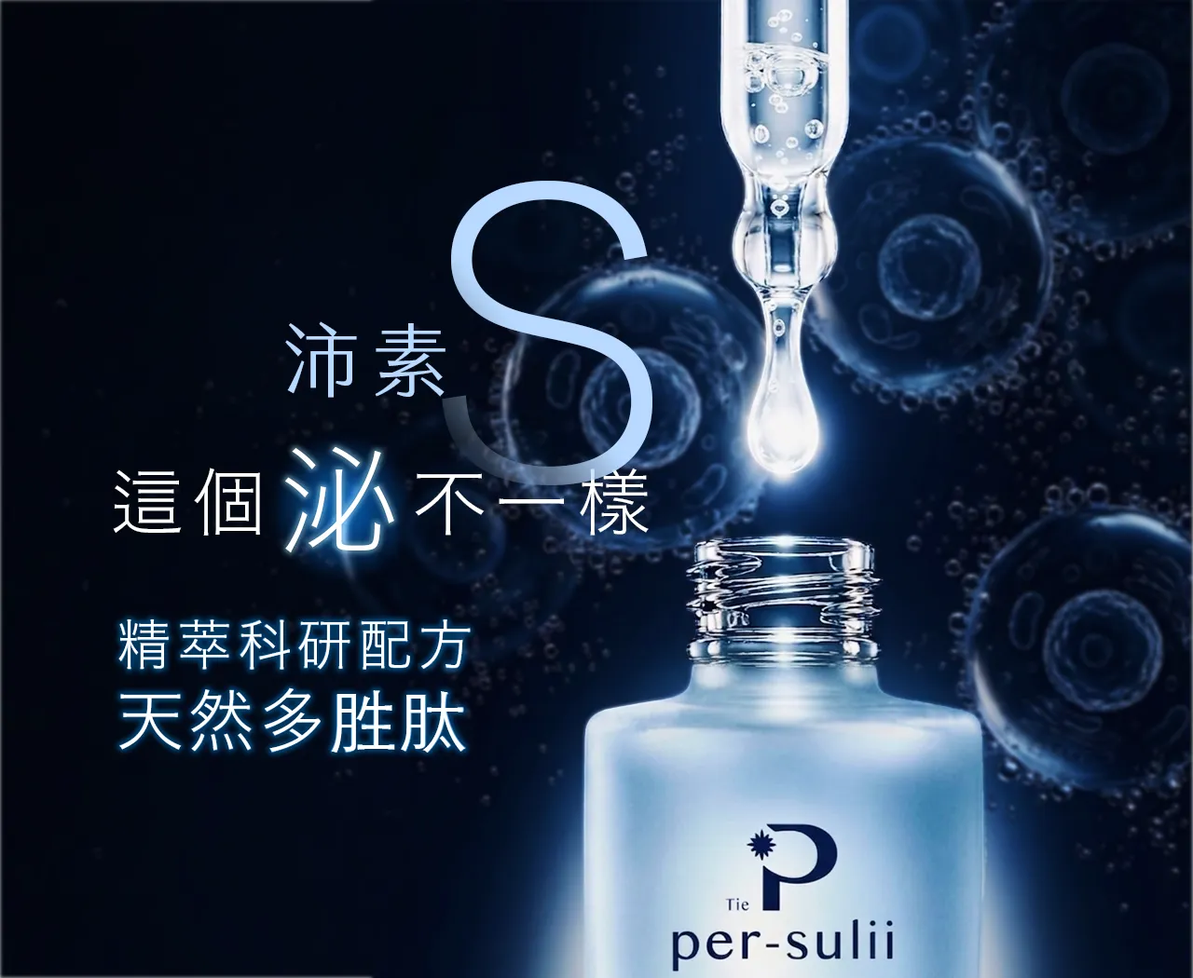
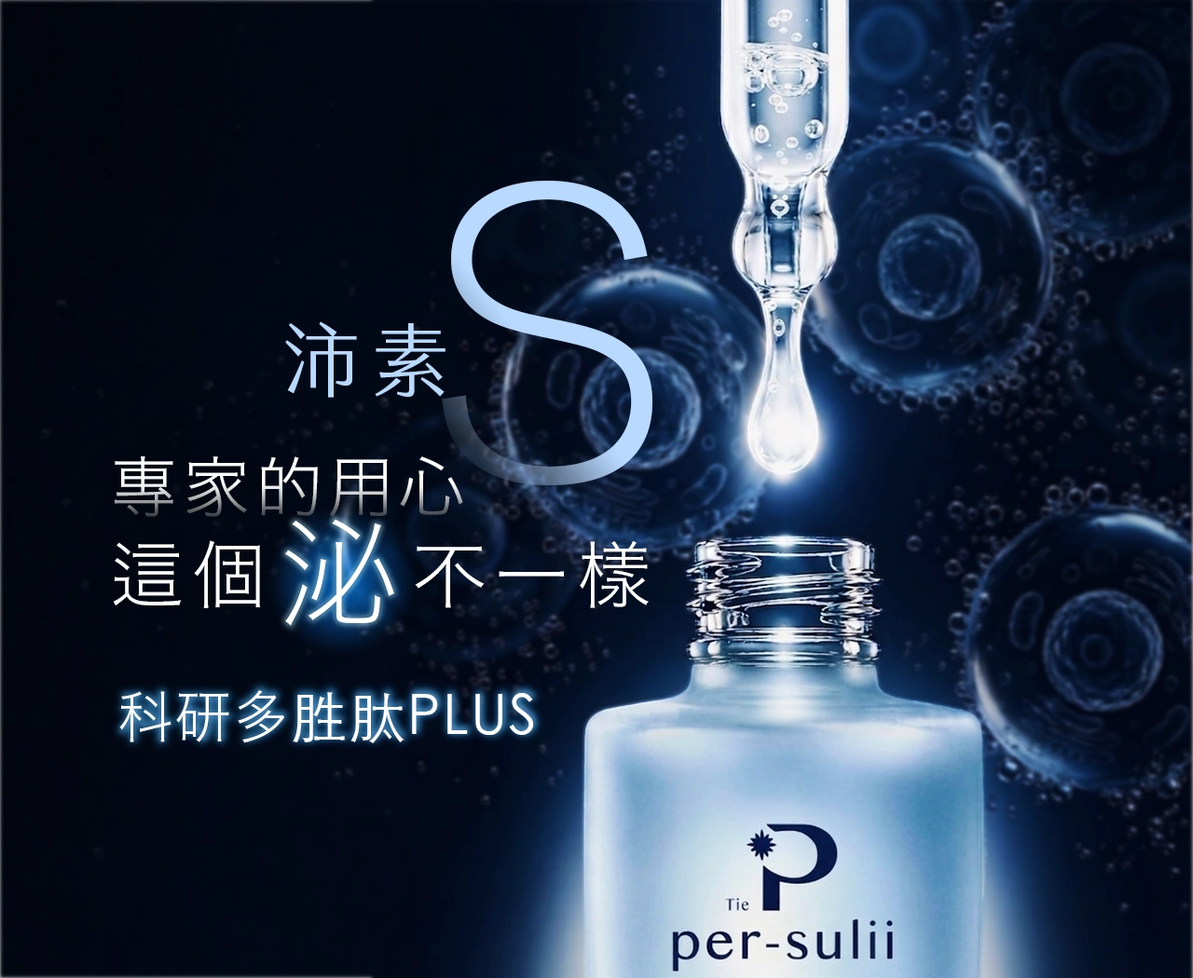
文案優化調整

Changed region(s): [[0.0938, 0.4571, 0.5625, 0.7924]]

diff --git a/products/v-essence.html b/products/v-essence.html
@@ -13,21 +13,21 @@
   <meta charset="UTF-8">
   <meta name="viewport" content="width=device-width, initial-scale=1.0">
   <title>V-essence 精萃蜂胜肽 PLUS 精華 — 沛素 per-sulii</title>
-  <meta name="description" content="專為紋路肌膚打造的撫紋精華 蜂胜肽是珍貴的活性多肽成分，有助於維持肌膚彈性與緊緻，改善細紋與乾燥粗糙，讓肌膚展現澎潤光澤與年輕活力。">
+  <meta name="description" content="專為淡化肌膚紋路打造 蜂胜肽是珍貴的活性多肽成分，有助於維持肌膚彈性與緊緻，改善細紋與乾燥粗糙，讓肌膚展現澎潤光澤與年輕活力。">
   <link rel="canonical" href="https://persulii.com.tw/products/v-essence">
   <meta property="og:type" content="product">
   <meta property="og:site_name" content="沛素 per-sulii">
   <meta property="og:title" content="V-essence 精萃蜂胜肽 PLUS 精華 — 沛素 per-sulii">
-  <meta property="og:description" content="專為紋路肌膚打造的撫紋精華 蜂胜肽是珍貴的活性多肽成分，有助於維持肌膚彈性與緊緻，改善細紋與乾燥粗糙，讓肌膚展現澎潤光澤與年輕活力。">
+  <meta property="og:description" content="專為淡化肌膚紋路打造 蜂胜肽是珍貴的活性多肽成分，有助於維持肌膚彈性與緊緻，改善細紋與乾燥粗糙，讓肌膚展現澎潤光澤與年輕活力。">
   <meta property="og:url" content="https://persulii.com.tw/products/v-essence">
   <meta property="og:image" content="https://persulii.com.tw/images/pbanner-V.webp">
   <meta property="og:locale" content="zh_TW">
   <meta name="twitter:card" content="summary_large_image">
   <meta name="twitter:title" content="V-essence 精萃蜂胜肽 PLUS 精華 — 沛素 per-sulii">
-  <meta name="twitter:description" content="專為紋路肌膚打造的撫紋精華 蜂胜肽是珍貴的活性多肽成分，有助於維持肌膚彈性與緊緻，改善細紋與乾燥粗糙，讓肌膚展現澎潤光澤與年輕活力。">
+  <meta name="twitter:description" content="專為淡化肌膚紋路打造 蜂胜肽是珍貴的活性多肽成分，有助於維持肌膚彈性與緊緻，改善細紋與乾燥粗糙，讓肌膚展現澎潤光澤與年輕活力。">
   <meta name="twitter:image" content="https://persulii.com.tw/images/pbanner-V.webp">
-  <script type="application/ld+json">{"@context":"https://schema.org","@type":"Product","name":"V-essence 精萃蜂胜肽 PLUS 精華","description":"專為紋路肌膚打造的撫紋精華 蜂胜肽是珍貴的活性多肽成分，有助於維持肌膚彈性與緊緻，改善細紋與乾燥粗糙，讓肌膚展現澎潤光澤與年輕活力。","image":"https://persulii.com.tw/images/pbanner-V.webp","brand":{"@type":"Brand","name":"per-sulii 沛素"},"url":"https://persulii.com.tw/products/v-essence"}</script>
-  <script type="application/ld+json">{"@context":"https://schema.org","@type":"VideoObject","name":"V-essence 精萃蜂胜肽 PLUS 精華 介紹影片","description":"V-essence 精萃蜂胜肽 PLUS 精華介紹影片。專為紋路肌膚打造的撫紋精華 蜂胜肽是珍貴的活性多肽成分，有助於維持肌膚彈性與緊緻，改善細紋與乾燥粗糙，讓肌膚展現澎潤光澤與年輕活力。","thumbnailUrl":"https://persulii.com.tw/images/video-v-poster.jpg","uploadDate":"2026-08-01T00:00:00+08:00","embedUrl":"https://www.youtube.com/embed/5AQHqlaNYpI"}</script>
+  <script type="application/ld+json">{"@context":"https://schema.org","@type":"Product","name":"V-essence 精萃蜂胜肽 PLUS 精華","description":"專為淡化肌膚紋路打造 蜂胜肽是珍貴的活性多肽成分，有助於維持肌膚彈性與緊緻，改善細紋與乾燥粗糙，讓肌膚展現澎潤光澤與年輕活力。","image":"https://persulii.com.tw/images/pbanner-V.webp","brand":{"@type":"Brand","name":"per-sulii 沛素"},"url":"https://persulii.com.tw/products/v-essence"}</script>
+  <script type="application/ld+json">{"@context":"https://schema.org","@type":"VideoObject","name":"V-essence 精萃蜂胜肽 PLUS 精華 介紹影片","description":"V-essence 精萃蜂胜肽 PLUS 精華介紹影片。專為淡化肌膚紋路打造 蜂胜肽是珍貴的活性多肽成分，有助於維持肌膚彈性與緊緻，改善細紋與乾燥粗糙，讓肌膚展現澎潤光澤與年輕活力。","thumbnailUrl":"https://persulii.com.tw/images/video-v-poster.jpg","uploadDate":"2026-08-01T00:00:00+08:00","embedUrl":"https://www.youtube.com/embed/5AQHqlaNYpI"}</script>
   <link rel="preconnect" href="https://fonts.googleapis.com">
   <link rel="preconnect" href="https://fonts.gstatic.com" crossorigin>
   <link
@@ -41,7 +41,7 @@
   <div id="site-header"></div>
 
   <!-- 本頁由 scripts/build-pages.mjs 依 content/products.json 產生，請勿直接編輯 -->
-  <main id="product-detail"><div class="wrap"><div class="crumb"><a href="/">首頁</a> / <a href="/products">產品</a> / V-essence 精萃蜂胜肽 PLUS 精華</div></div><div class="pbanner-wrap"><img class="pbanner" src="/images/pbanner-V.webp" alt="V-essence 精萃蜂胜肽 PLUS 精華"></div><section class="sec tight"><div class="wrap split" style="align-items:flex-start"><div class="media product" id="product-hero-media"><img class="media-img" src="/images/V02.webp" alt="V-essence 精萃蜂胜肽 PLUS 精華"></div><div><div class="eyebrow">V-essence</div><h1 class="h2 mt12">精萃蜂胜肽 PLUS 精華</h1><p class="lead mt16">專為紋路肌膚打造的撫紋精華</p><p class="body">蜂胜肽是珍貴的活性多肽成分，有助於維持肌膚彈性與緊緻，改善細紋與乾燥粗糙，讓肌膚展現澎潤光澤與年輕活力。</p><div class="chips mt24"><span class="chip">改善細紋</span><span class="chip">緊緻肌膚</span><span class="chip">彈潤光澤</span><span class="chip">淡化紋路</span></div></div></div></section><section class="sec tight" id="product-feature-sec" style="background:var(--bg)"><div class="wrap"><div class="benefits-layout"><div><h2 class="h3">四大保養功效</h2><div class="benefits-row mt32"><div class="benefit-item"><div class="benefit-thumb" style="background-image:url('/images/VS功能_V001.webp');background-size:cover;background-position:center"></div><div><h3 class="h3" style="font-size: clamp(18px, 2.5vw, 20px);">淡化紋路</h3><p class="small mt8">撫平細紋<br>調理肌膚紋路</p></div></div><div class="benefit-item"><div class="benefit-thumb" style="background-image:url('/images/VS功能_V002.webp');background-size:cover;background-position:center"></div><div><h3 class="h3" style="font-size: clamp(18px, 2.5vw, 20px);">緊緻澎潤</h3><p class="small mt8">彈潤肌膚彈性<br>使肌膚緊緻</p></div></div><div class="benefit-item"><div class="benefit-thumb" style="background-image:url('/images/VS功能_V003.webp');background-size:cover;background-position:center"></div><div><h3 class="h3" style="font-size: clamp(18px, 2.5vw, 20px);">水嫩光澤</h3><p class="small mt8">水潤肌膚<br>使肌膚透亮光采</p></div></div><div class="benefit-item"><div class="benefit-thumb" style="background-image:url('/images/VS功能_V004.webp');background-size:cover;background-position:center"></div><div><h3 class="h3" style="font-size: clamp(18px, 2.5vw, 20px);">健康肌膚</h3><p class="small mt8">調理肌膚狀況<br>養護肌膚健康</p></div></div></div></div><div class="benefit-video"><div class="video-frame"><iframe src="https://www.youtube.com/embed/5AQHqlaNYpI" title="V-essence 介紹影片" allow="accelerometer; autoplay; clipboard-write; encrypted-media; gyroscope; picture-in-picture; web-share" allowfullscreen loading="lazy"></iframe></div><div class="video-share-wrap"><button type="button" class="btn ghost share-btn" data-share-url="https://persulii.com.tw/products/v-essence" data-share-title="V-essence 精萃蜂胜肽 PLUS 精華"><svg viewBox="0 0 24 24" fill="none" stroke="currentColor" stroke-width="1.8" stroke-linecap="round" stroke-linejoin="round"><circle cx="18" cy="5" r="2.4"/><circle cx="6" cy="12" r="2.4"/><circle cx="18" cy="19" r="2.4"/><path d="M8.1 10.7l7.6-4.3M8.1 13.3l7.6 4.3"/></svg><span class="share-btn-label">分享</span></button></div></div></div></div></section><section class="sec tight"><div class="wrap"><h2 class="h3">關鍵成分</h2><div class="ingredient-flow mt24"><div class="ingredient-flow-terms">蜂胜肽 <span class="ingredient-flow-plus">+</span> 多重胜肽 <span class="ingredient-flow-arrow">⇨</span> 小分子萃取</div><p class="ingredient-flow-caption mt8">精密萃取技術，兼顧穩定性與吸收效率</p></div></div></section><section class="sec tight" style="background:var(--bg)"><div class="wrap grid g2"><div><h2 class="h3">適用族群</h2><ul class="checklist mt24"><li>追求淡化細紋</li><li>追求肌膚彈性光澤</li><li>追求緊緻澎潤</li></ul></div><div><h2 class="h3">使用方式</h2><p class="body mt16">每天30秒 早晚淨臉後護理</p><p class="body mt16"><span class="num">01</span>　臉部清潔洗淨</p><p class="body mt8"><span class="num">02</span>　取適量輕抹於臉部細紋處</p><p class="body mt8"><span class="num">03</span>　早晚常態使用</p></div></div></section><section class="sec tight"><div class="wrap"><h2 class="h3">注意事項</h2><ul class="checklist dot mt16"><li>對蜂產品過敏者慎用。</li><li>建議先局部測試，1小時後確認無不良反應。</li><li>建議12歲以上使用。</li></ul></div></section><section class="sec tight" style="background:var(--bg)"><div class="wrap"><h2 class="h3">產品資訊</h2><table class="pspecs mt24"><tr><th>品牌</th><td>per-sulii</td></tr><tr><th>品名</th><td>沛素-V 精萃蜂胜肽plus精華</td></tr><tr><th>英文名稱</th><td>V-essence</td></tr><tr><th>容量</th><td>35ml / 1.18 fl. oz.</td></tr></table><div class="mt24"><p class="body mt8">成分標示：</p><p class="body mt16" style="font-weight:500">Ingredients / 全成分表</p><p class="small mt8 inci-text">Aqua Water, Glycerine, Glycosyl Trehalose/Hydrogenated Starch Hydrolysate, Oat Beta-Glucan, Niacinamide, Phenoxyethanol, Carbopol, PEG-40 Hydrogenated Castor Oil, Butylene Glycol/Honey Bee Venom, Dipeptide Diaminobutyroyl Benzylamide Diacetate, Hyaluronic Acid, L-Arginine</p><p class="small mt8">Fragrance free</p></div></div></section><section class="sec tight"><div class="wrap"><div class="pn mt56"><a href="/products" class="pn-i"><div class="eyebrow">← 回到產品頁</div></a><a href="/products/s-essence" class="pn-i" style="text-align:right"><div class="eyebrow">下一個商品 →</div><div class="nm">S-essence 外泌體多胜肽養護精華</div></a></div></div></section></main>
+  <main id="product-detail"><div class="wrap"><div class="crumb"><a href="/">首頁</a> / <a href="/products">產品</a> / V-essence 精萃蜂胜肽 PLUS 精華</div></div><div class="pbanner-wrap"><img class="pbanner" src="/images/pbanner-V.webp" alt="V-essence 精萃蜂胜肽 PLUS 精華"></div><section class="sec tight"><div class="wrap split" style="align-items:flex-start"><div class="media product" id="product-hero-media"><img class="media-img" src="/images/V02.webp" alt="V-essence 精萃蜂胜肽 PLUS 精華"></div><div><div class="eyebrow">V-essence</div><h1 class="h2 mt12">精萃蜂胜肽 PLUS 精華</h1><p class="lead mt16">專為淡化肌膚紋路打造</p><p class="body">蜂胜肽是珍貴的活性多肽成分，有助於維持肌膚彈性與緊緻，改善細紋與乾燥粗糙，讓肌膚展現澎潤光澤與年輕活力。</p><div class="chips mt24"><span class="chip">改善細紋</span><span class="chip">緊緻肌膚</span><span class="chip">彈潤光澤</span><span class="chip">淡化紋路</span></div></div></div></section><section class="sec tight" id="product-feature-sec" style="background:var(--bg)"><div class="wrap"><div class="benefits-layout"><div><h2 class="h3">四大保養功效</h2><div class="benefits-row mt32"><div class="benefit-item"><div class="benefit-thumb" style="background-image:url('/images/VS功能_V001.webp');background-size:cover;background-position:center"></div><div><h3 class="h3" style="font-size: clamp(18px, 2.5vw, 20px);">淡化紋路</h3><p class="small mt8">撫平細紋<br>調理肌膚紋路</p></div></div><div class="benefit-item"><div class="benefit-thumb" style="background-image:url('/images/VS功能_V002.webp');background-size:cover;background-position:center"></div><div><h3 class="h3" style="font-size: clamp(18px, 2.5vw, 20px);">緊緻澎潤</h3><p class="small mt8">彈潤肌膚彈性<br>使肌膚緊緻</p></div></div><div class="benefit-item"><div class="benefit-thumb" style="background-image:url('/images/VS功能_V003.webp');background-size:cover;background-position:center"></div><div><h3 class="h3" style="font-size: clamp(18px, 2.5vw, 20px);">水嫩光澤</h3><p class="small mt8">水潤肌膚<br>使肌膚透亮光采</p></div></div><div class="benefit-item"><div class="benefit-thumb" style="background-image:url('/images/VS功能_V004.webp');background-size:cover;background-position:center"></div><div><h3 class="h3" style="font-size: clamp(18px, 2.5vw, 20px);">美麗肌膚</h3><p class="small mt8">調理肌膚狀況<br>養護肌膚健康</p></div></div></div></div><div class="benefit-video"><div class="video-frame"><iframe src="https://www.youtube.com/embed/5AQHqlaNYpI" title="V-essence 介紹影片" allow="accelerometer; autoplay; clipboard-write; encrypted-media; gyroscope; picture-in-picture; web-share" allowfullscreen loading="lazy"></iframe></div><div class="video-share-wrap"><button type="button" class="btn ghost share-btn" data-share-url="https://persulii.com.tw/products/v-essence" data-share-title="V-essence 精萃蜂胜肽 PLUS 精華"><svg viewBox="0 0 24 24" fill="none" stroke="currentColor" stroke-width="1.8" stroke-linecap="round" stroke-linejoin="round"><circle cx="18" cy="5" r="2.4"/><circle cx="6" cy="12" r="2.4"/><circle cx="18" cy="19" r="2.4"/><path d="M8.1 10.7l7.6-4.3M8.1 13.3l7.6 4.3"/></svg><span class="share-btn-label">分享</span></button></div></div></div></div></section><section class="sec tight"><div class="wrap"><h2 class="h3">關鍵成分</h2><div class="ingredient-flow mt24"><div class="ingredient-flow-terms">蜂胜肽 <span class="ingredient-flow-plus">+</span> 多重胜肽 <span class="ingredient-flow-arrow">⇨</span> 小分子萃取</div></div></div></section><section class="sec tight" style="background:var(--bg)"><div class="wrap grid g2"><div><h2 class="h3">適用族群</h2><ul class="checklist mt24"><li>追求淡化細紋</li><li>追求肌膚彈性光澤</li><li>追求緊緻澎潤</li></ul></div><div><h2 class="h3">使用方式</h2><p class="body mt16">每天30秒 早晚淨臉後護理</p><p class="body mt16"><span class="num">01</span>　臉部清潔洗淨</p><p class="body mt8"><span class="num">02</span>　取適量輕抹於臉部細紋處</p><p class="body mt8"><span class="num">03</span>　早晚常態使用</p></div></div></section><section class="sec tight"><div class="wrap"><h2 class="h3">注意事項</h2><ul class="checklist dot mt16"><li>對蜂產品過敏者慎用。</li><li>建議先局部測試，1小時後確認無不良反應。</li><li>建議12歲以上使用。</li></ul></div></section><section class="sec tight" style="background:var(--bg)"><div class="wrap"><h2 class="h3">產品資訊</h2><table class="pspecs mt24"><tr><th>品牌</th><td>per-sulii</td></tr><tr><th>品名</th><td>沛素-V 精萃蜂胜肽plus精華</td></tr><tr><th>英文名稱</th><td>V-essence</td></tr><tr><th>容量</th><td>35ml / 1.18 fl. oz.</td></tr></table><div class="mt24"><p class="body mt8">成分標示：</p><p class="body mt16" style="font-weight:500">Ingredients / 全成分表</p><p class="small mt8 inci-text">Aqua Water, Glycerine, Glycosyl Trehalose/Hydrogenated Starch Hydrolysate, Oat Beta-Glucan, Niacinamide, Phenoxyethanol, Carbopol, PEG-40 Hydrogenated Castor Oil, Butylene Glycol/Honey Bee Venom, Dipeptide Diaminobutyroyl Benzylamide Diacetate, Hyaluronic Acid, L-Arginine</p><p class="small mt8">Fragrance free</p></div></div></section><section class="sec tight"><div class="wrap"><div class="pn mt56"><a href="/products" class="pn-i"><div class="eyebrow">← 回到產品頁</div></a><a href="/products/s-essence" class="pn-i" style="text-align:right"><div class="eyebrow">下一個商品 →</div><div class="nm">S-essence 外泌體多胜肽養護精華</div></a></div></div></section></main>
 
   <div id="site-footer"></div>
 

diff --git a/products/s-essence.html b/products/s-essence.html
@@ -41,7 +41,7 @@
   <div id="site-header"></div>
 
   <!-- 本頁由 scripts/build-pages.mjs 依 content/products.json 產生，請勿直接編輯 -->
-  <main id="product-detail"><div class="wrap"><div class="crumb"><a href="/">首頁</a> / <a href="/products">產品</a> / S-essence 外泌體多胜肽養護精華</div></div><div class="pbanner-wrap"><img class="pbanner" src="/images/pbanner-S.webp" alt="S-essence 外泌體多胜肽養護精華"></div><section class="sec tight"><div class="wrap split" style="align-items:flex-start"><div class="media product" id="product-hero-media"><img class="media-img" src="/images/S06.webp" alt="S-essence 外泌體多胜肽養護精華"></div><div><div class="eyebrow">S-essence</div><h1 class="h2 mt12">外泌體多胜肽養護精華</h1><p class="lead mt16">柔潤、透亮肌膚、細緻毛孔</p><p class="body">使用合法優質外泌體結合多胜肽，穩定肌膚、增強防護力，讓肌膚健康細緻</p></div></div></section><section class="sec tight" id="product-feature-sec" style="background:var(--bg)"><div class="wrap"><div class="benefits-layout"><div><h2 class="h3">三大保養功效</h2><div class="benefits-row cols-3 mt32"><div class="benefit-item"><div class="benefit-thumb" style="background-image:url('/images/VS功能_S001.webp');background-size:cover;background-position:center"></div><div><h3 class="h3" style="font-size: clamp(18px, 2.5vw, 20px);">細緻毛孔</h3><p class="small mt8">細緻柔滑肌膚</p></div></div><div class="benefit-item"><div class="benefit-thumb" style="background-image:url('/images/VS功能_S002.webp');background-size:cover;background-position:center"></div><div><h3 class="h3" style="font-size: clamp(18px, 2.5vw, 20px);">穩定養護</h3><p class="small mt8">肌膚穩定力</p></div></div><div class="benefit-item"><div class="benefit-thumb" style="background-image:url('/images/VS功能_S003.webp');background-size:cover;background-position:center"></div><div><h3 class="h3" style="font-size: clamp(18px, 2.5vw, 20px);">賦活光采</h3><p class="small mt8">展現自然透亮光澤</p></div></div></div></div><div class="benefit-video"><div class="video-frame"><iframe src="https://www.youtube.com/embed/U29afyMK6r4" title="S-essence 介紹影片" allow="accelerometer; autoplay; clipboard-write; encrypted-media; gyroscope; picture-in-picture; web-share" allowfullscreen loading="lazy"></iframe></div><div class="video-share-wrap"><button type="button" class="btn ghost share-btn" data-share-url="https://persulii.com.tw/products/s-essence" data-share-title="S-essence 外泌體多胜肽養護精華"><svg viewBox="0 0 24 24" fill="none" stroke="currentColor" stroke-width="1.8" stroke-linecap="round" stroke-linejoin="round"><circle cx="18" cy="5" r="2.4"/><circle cx="6" cy="12" r="2.4"/><circle cx="18" cy="19" r="2.4"/><path d="M8.1 10.7l7.6-4.3M8.1 13.3l7.6 4.3"/></svg><span class="share-btn-label">分享</span></button></div></div></div></div></section><section class="sec tight"><div class="wrap"><h2 class="h3">關鍵成分</h2><div class="ingredient-flow mt24"><div class="ingredient-flow-terms">外泌體 <span class="ingredient-flow-plus">+</span> 多胜肽 <span class="ingredient-flow-arrow">⇨</span> 小分子萃取</div><p class="ingredient-flow-caption mt8">精密萃取技術，兼顧穩定性與吸收效率</p></div></div></section><section class="sec tight"><div class="wrap"><h2 class="h3">使用方式</h2><p class="body mt16">每天30秒 日常護理</p><p class="body mt16"><span class="num">01</span>　臉部清潔完畢</p><p class="body mt8"><span class="num">02</span>　取適量輕抹全臉</p><p class="body mt8"><span class="num">03</span>　早晚都能使用</p></div></section><section class="sec tight" style="background:var(--bg)"><div class="wrap"><h2 class="h3">產品資訊</h2><table class="pspecs mt24"><tr><th>品牌</th><td>per-sulii</td></tr><tr><th>品名</th><td>沛素-S 外泌體多胜肽養護精華</td></tr><tr><th>英文名稱</th><td>S-essence</td></tr><tr><th>容量</th><td>35ml / 1.18 fl oz</td></tr></table><div class="mt24"><p class="body mt8">成分標示：</p><p class="body mt16" style="font-weight:500">Ingredients / 全成分表</p><p class="small mt8 inci-text">Aqua water, Glycerine, Glycosyl Trehalose & Hydrogenated Starch Hydrolysate, Oat Beta-Glucan, Niacinamide, Phenoxyethanol, Exosome Liquid, Carbopol 980, PEG-40 Hydrogenated Castor Oil, Hyaluronic Acid, L-Arginine</p><p class="small mt8">Fragrance free</p></div></div></section><section class="sec tight"><div class="wrap"><div class="pn mt56"><a href="/products" class="pn-i"><div class="eyebrow">← 回到產品頁</div></a><a href="/products/v-essence" class="pn-i" style="text-align:right"><div class="eyebrow">下一個商品 →</div><div class="nm">V-essence 精萃蜂胜肽 PLUS 精華</div></a></div></div></section></main>
+  <main id="product-detail"><div class="wrap"><div class="crumb"><a href="/">首頁</a> / <a href="/products">產品</a> / S-essence 外泌體多胜肽養護精華</div></div><div class="pbanner-wrap"><img class="pbanner" src="/images/pbanner-S.webp" alt="S-essence 外泌體多胜肽養護精華"></div><section class="sec tight"><div class="wrap split" style="align-items:flex-start"><div class="media product" id="product-hero-media"><img class="media-img" src="/images/S06.webp" alt="S-essence 外泌體多胜肽養護精華"></div><div><div class="eyebrow">S-essence</div><h1 class="h2 mt12">外泌體多胜肽養護精華</h1><p class="lead mt16">柔潤、透亮肌膚、細緻毛孔</p><p class="body">使用合法優質外泌體結合多胜肽，穩定肌膚、增強防護力，讓肌膚健康細緻</p></div></div></section><section class="sec tight" id="product-feature-sec" style="background:var(--bg)"><div class="wrap"><div class="benefits-layout"><div><h2 class="h3">三大保養功效</h2><div class="benefits-row cols-3 mt32"><div class="benefit-item"><div class="benefit-thumb" style="background-image:url('/images/VS功能_S001.webp');background-size:cover;background-position:center"></div><div><h3 class="h3" style="font-size: clamp(18px, 2.5vw, 20px);">細緻毛孔</h3><p class="small mt8">細緻柔滑肌膚</p></div></div><div class="benefit-item"><div class="benefit-thumb" style="background-image:url('/images/VS功能_S002.webp');background-size:cover;background-position:center"></div><div><h3 class="h3" style="font-size: clamp(18px, 2.5vw, 20px);">穩定養護</h3><p class="small mt8">肌膚穩定力</p></div></div><div class="benefit-item"><div class="benefit-thumb" style="background-image:url('/images/VS功能_S003.webp');background-size:cover;background-position:center"></div><div><h3 class="h3" style="font-size: clamp(18px, 2.5vw, 20px);">賦活光采</h3><p class="small mt8">展現自然透亮光澤</p></div></div></div></div><div class="benefit-video"><div class="video-frame"><iframe src="https://www.youtube.com/embed/U29afyMK6r4" title="S-essence 介紹影片" allow="accelerometer; autoplay; clipboard-write; encrypted-media; gyroscope; picture-in-picture; web-share" allowfullscreen loading="lazy"></iframe></div><div class="video-share-wrap"><button type="button" class="btn ghost share-btn" data-share-url="https://persulii.com.tw/products/s-essence" data-share-title="S-essence 外泌體多胜肽養護精華"><svg viewBox="0 0 24 24" fill="none" stroke="currentColor" stroke-width="1.8" stroke-linecap="round" stroke-linejoin="round"><circle cx="18" cy="5" r="2.4"/><circle cx="6" cy="12" r="2.4"/><circle cx="18" cy="19" r="2.4"/><path d="M8.1 10.7l7.6-4.3M8.1 13.3l7.6 4.3"/></svg><span class="share-btn-label">分享</span></button></div></div></div></div></section><section class="sec tight"><div class="wrap"><h2 class="h3">關鍵成分</h2><div class="ingredient-flow mt24"><div class="ingredient-flow-terms">外泌體 <span class="ingredient-flow-plus">+</span> 多胜肽 <span class="ingredient-flow-arrow">⇨</span> 小分子萃取</div></div></div></section><section class="sec tight"><div class="wrap"><h2 class="h3">使用方式</h2><p class="body mt16">每天30秒 日常護理</p><p class="body mt16"><span class="num">01</span>　臉部清潔完畢</p><p class="body mt8"><span class="num">02</span>　取適量輕抹全臉</p><p class="body mt8"><span class="num">03</span>　早晚都能使用</p></div></section><section class="sec tight" style="background:var(--bg)"><div class="wrap"><h2 class="h3">產品資訊</h2><table class="pspecs mt24"><tr><th>品牌</th><td>per-sulii</td></tr><tr><th>品名</th><td>沛素-S 外泌體多胜肽養護精華</td></tr><tr><th>英文名稱</th><td>S-essence</td></tr><tr><th>容量</th><td>35ml / 1.18 fl oz</td></tr></table><div class="mt24"><p class="body mt8">成分標示：</p><p class="body mt16" style="font-weight:500">Ingredients / 全成分表</p><p class="small mt8 inci-text">Aqua water, Glycerine, Glycosyl Trehalose & Hydrogenated Starch Hydrolysate, Oat Beta-Glucan, Niacinamide, Phenoxyethanol, Exosome Liquid, Carbopol 980, PEG-40 Hydrogenated Castor Oil, Hyaluronic Acid, L-Arginine</p><p class="small mt8">Fragrance free</p></div></div></section><section class="sec tight"><div class="wrap"><div class="pn mt56"><a href="/products" class="pn-i"><div class="eyebrow">← 回到產品頁</div></a><a href="/products/v-essence" class="pn-i" style="text-align:right"><div class="eyebrow">下一個商品 →</div><div class="nm">V-essence 精萃蜂胜肽 PLUS 精華</div></a></div></div></section></main>
 
   <div id="site-footer"></div>
 
